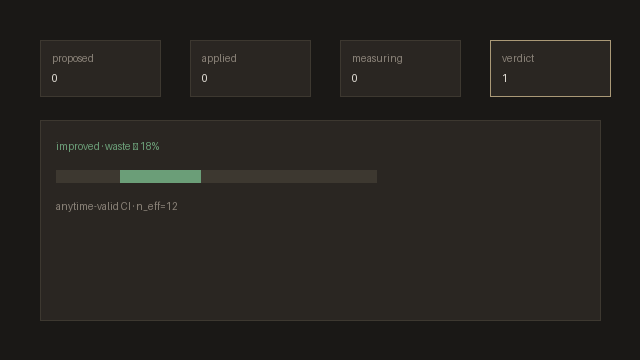
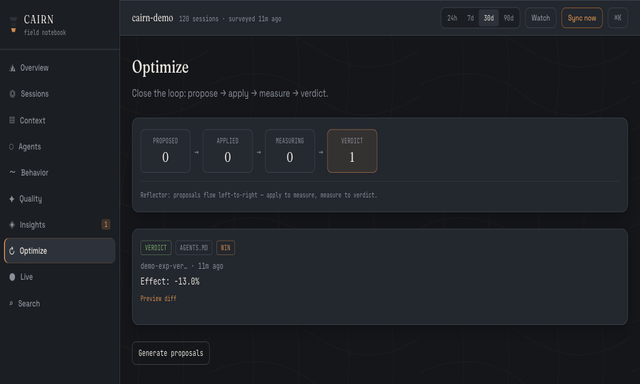
use real cairn UI captures for readme images

diff --git a/README.md b/README.md
@@ -21,7 +21,7 @@
 </p>
 
 <p align="center">
-  <img src="https://raw.githubusercontent.com/Harsh-Daga/Cairn/main/docs/assets/hero.png" width="720" alt="Cairn demo: Overview → session → replay scrub → blame toggle">
+  <img src="https://raw.githubusercontent.com/Harsh-Daga/Cairn/main/docs/assets/hero.gif" width="720" alt="Cairn demo: Overview → session → replay scrub → blame toggle">
 </p>
 
 ---